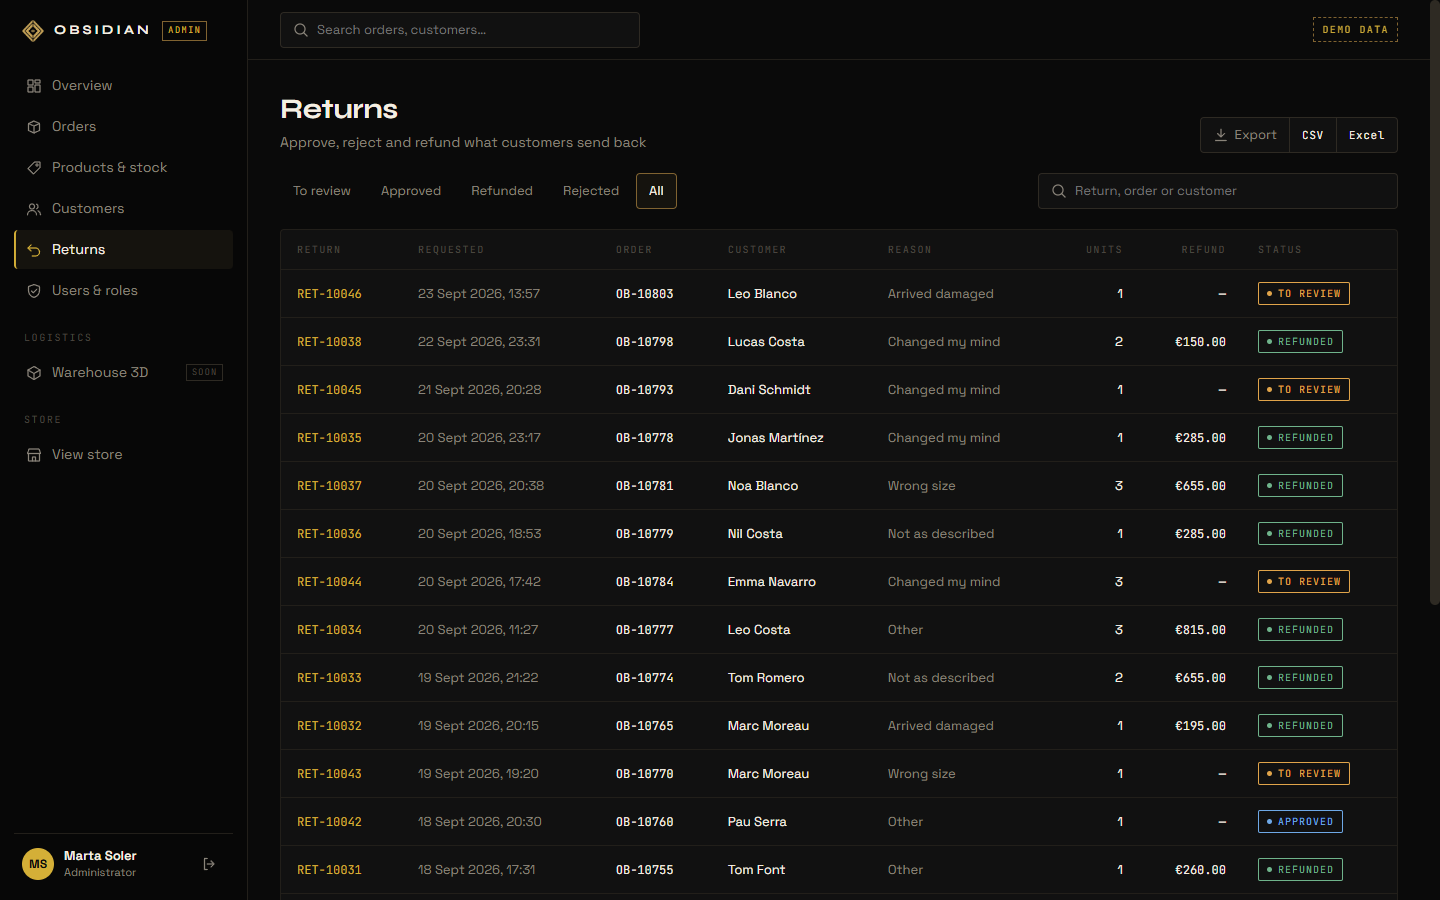
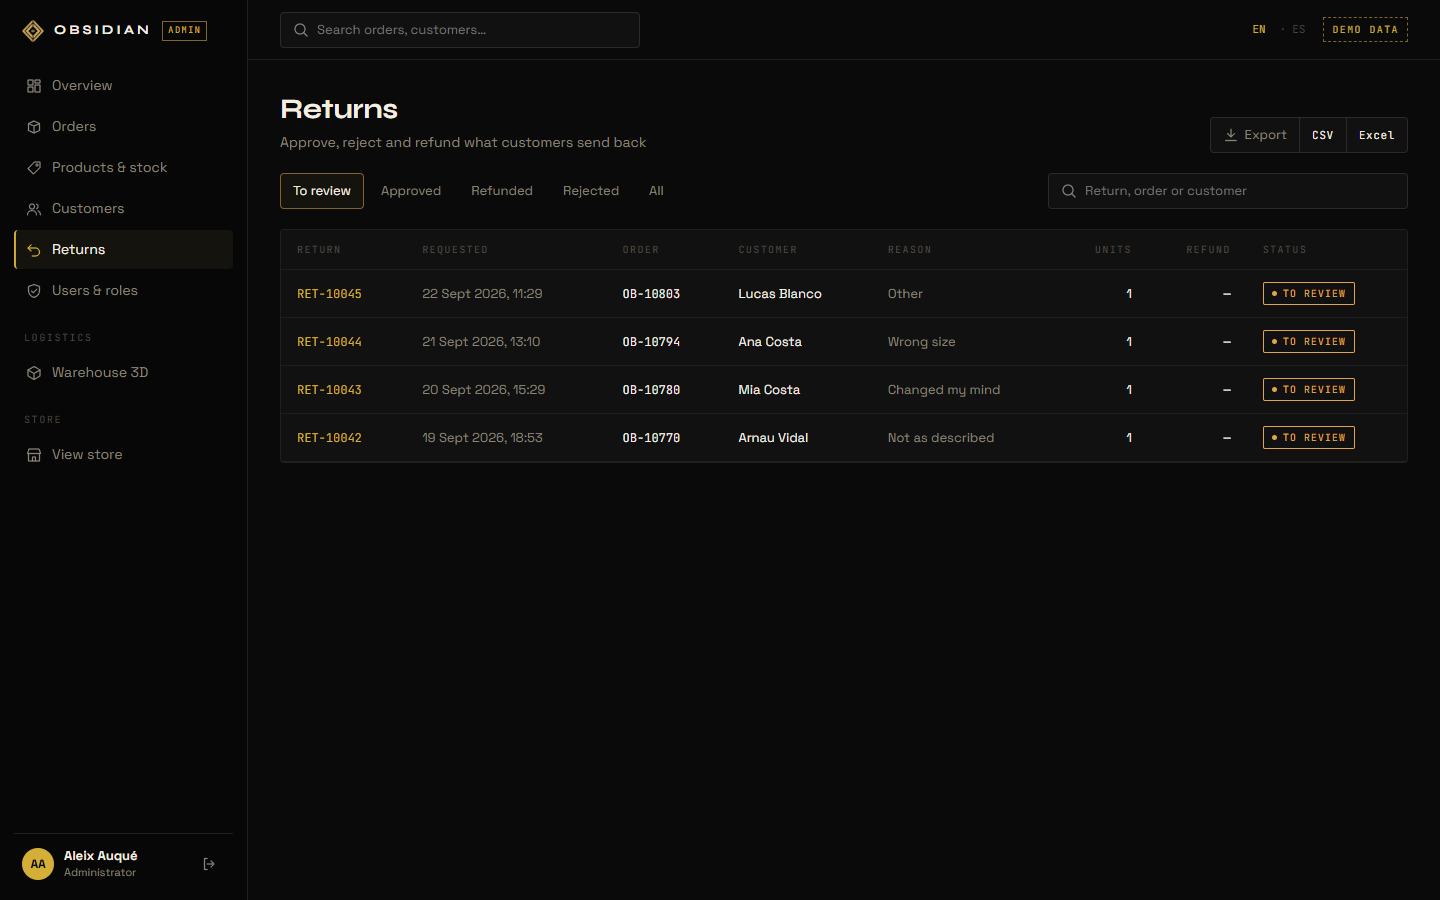
docs: capturas nuevas de la tienda y del panel en los README
- Capturas de la tienda a 1440 px con el selector de idioma
- Panel con el equipo actual, almacén 3D, stock y móvil
- Nuevas: panel en español y botón del panel en la cabecera

diff --git a/README.en.md b/README.en.md
@@ -18,15 +18,15 @@ The goal is to show how a commerce app is planned, built and deployed with a rea
 
 ## Screenshots
 
-![Home hero](./docs/screenshots/home-hero.png)
+![Home hero](./docs/screenshots/home-hero.jpg)
 
-![Lookbook section](./docs/screenshots/home-lookbook.png)
+![Lookbook section](./docs/screenshots/home-lookbook.jpg)
 
-![Categories](./docs/screenshots/home-categories.png)
+![Categories](./docs/screenshots/home-categories.jpg)
 
-![Women collection](./docs/screenshots/shop-women.png)
+![Women collection](./docs/screenshots/shop-women.jpg)
 
-![Product page](./docs/screenshots/product-detail.png)
+![Product page](./docs/screenshots/product-detail.jpg)
 
 ![Admin panel: overview](./docs/screenshots/admin-overview.png)
 
@@ -69,6 +69,11 @@ Lucía Fernández (customer support). The shop login also has a "demo customer" 
 The sample data (about 900 orders over 90 days, 60 customers, stock and returns) resets
 itself every 24 hours and is consistent: every return comment matches its reason and every
 address belongs to its city.
+
+Team accounts (the demo ones too) see an **Admin** button in the shop header to go straight
+to the panel; customers don't see it.
+
+![Shop header with the admin button](./docs/screenshots/shop-header-admin.png)
 
 ![Product page with the stock grid](./docs/screenshots/admin-product-stock.png)
 
@@ -134,6 +139,8 @@ The whole site (shop, account, legal pages and panel) is in Spanish and English.
   language (validation errors, messages, statuses, roles and export headers).
 - **Demo data:** saved once, in English, and translated by the API when it's sent (stock
   notes, return comments, order history…). Anything a real person types is shown as it is.
+
+![The panel in Spanish](./docs/screenshots/admin-overview-es.png)
 
 ## Tech Stack
 
